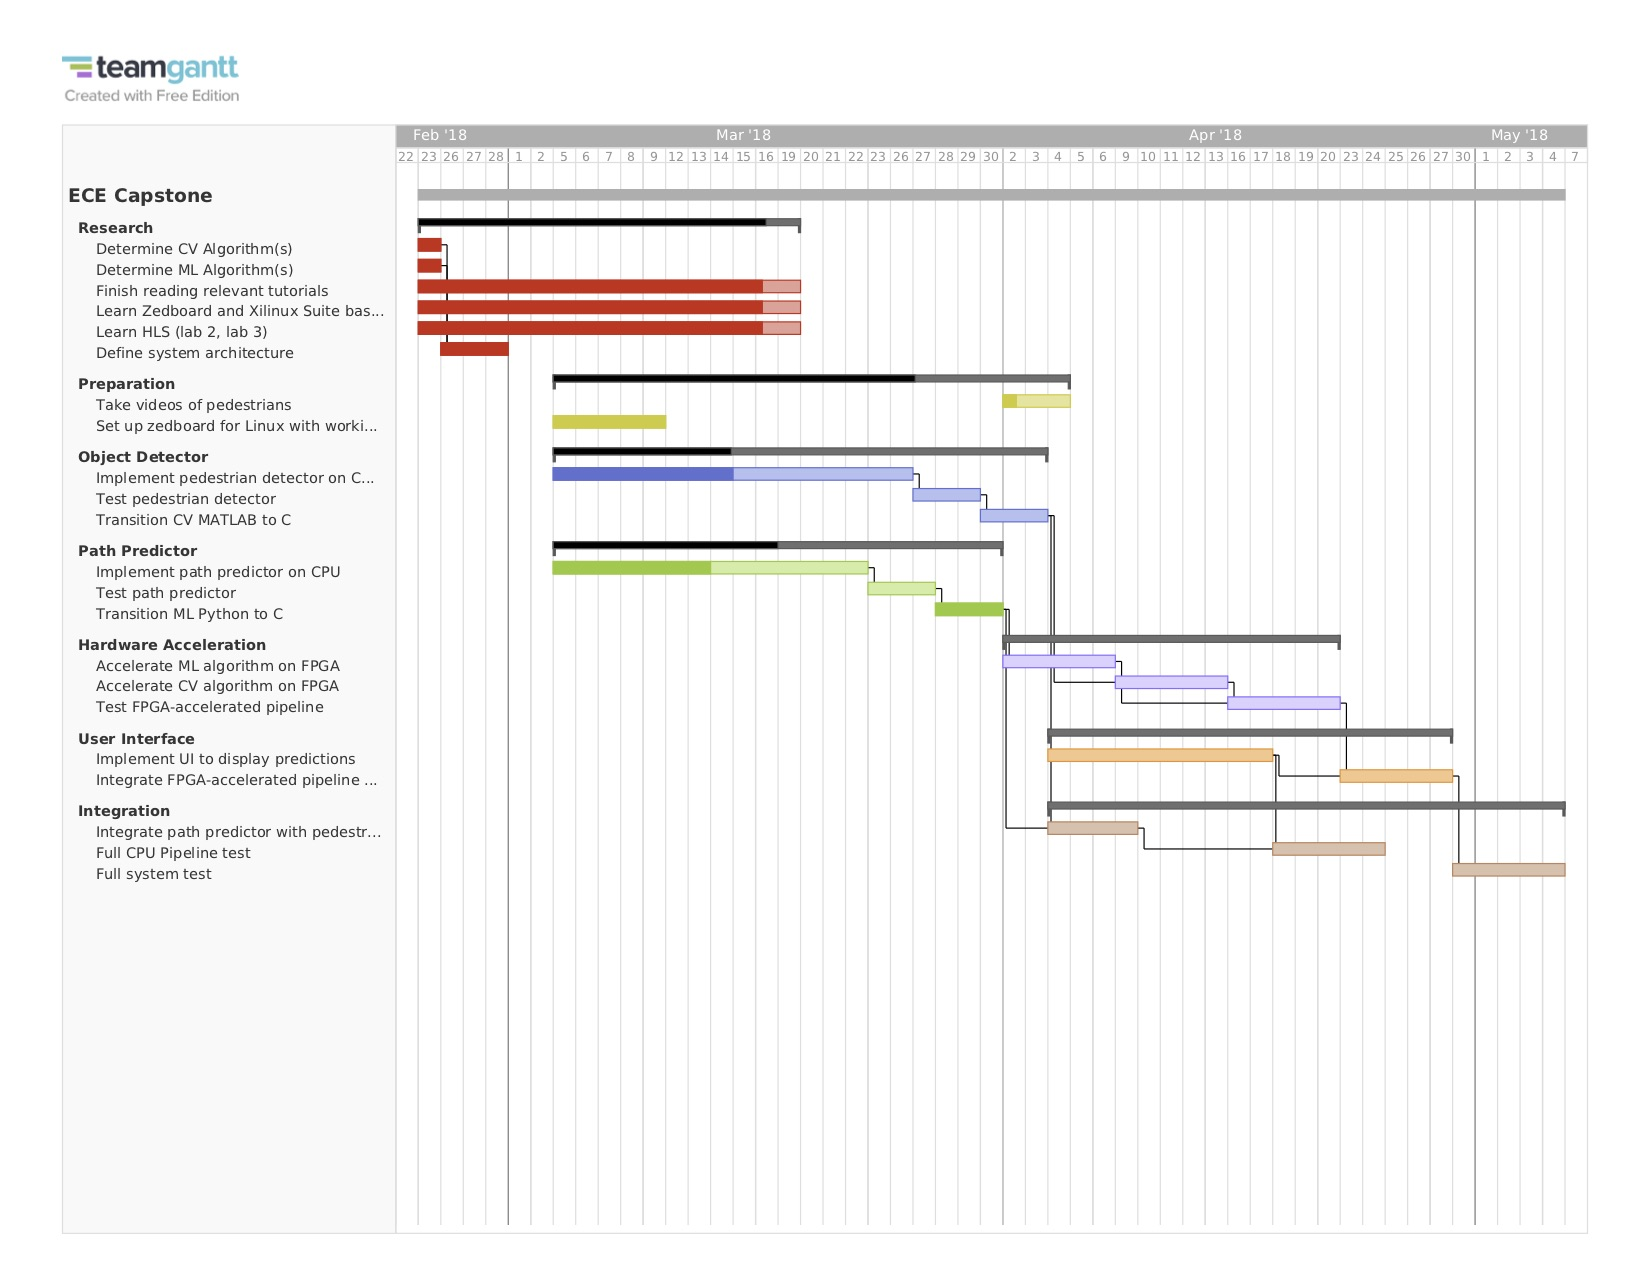
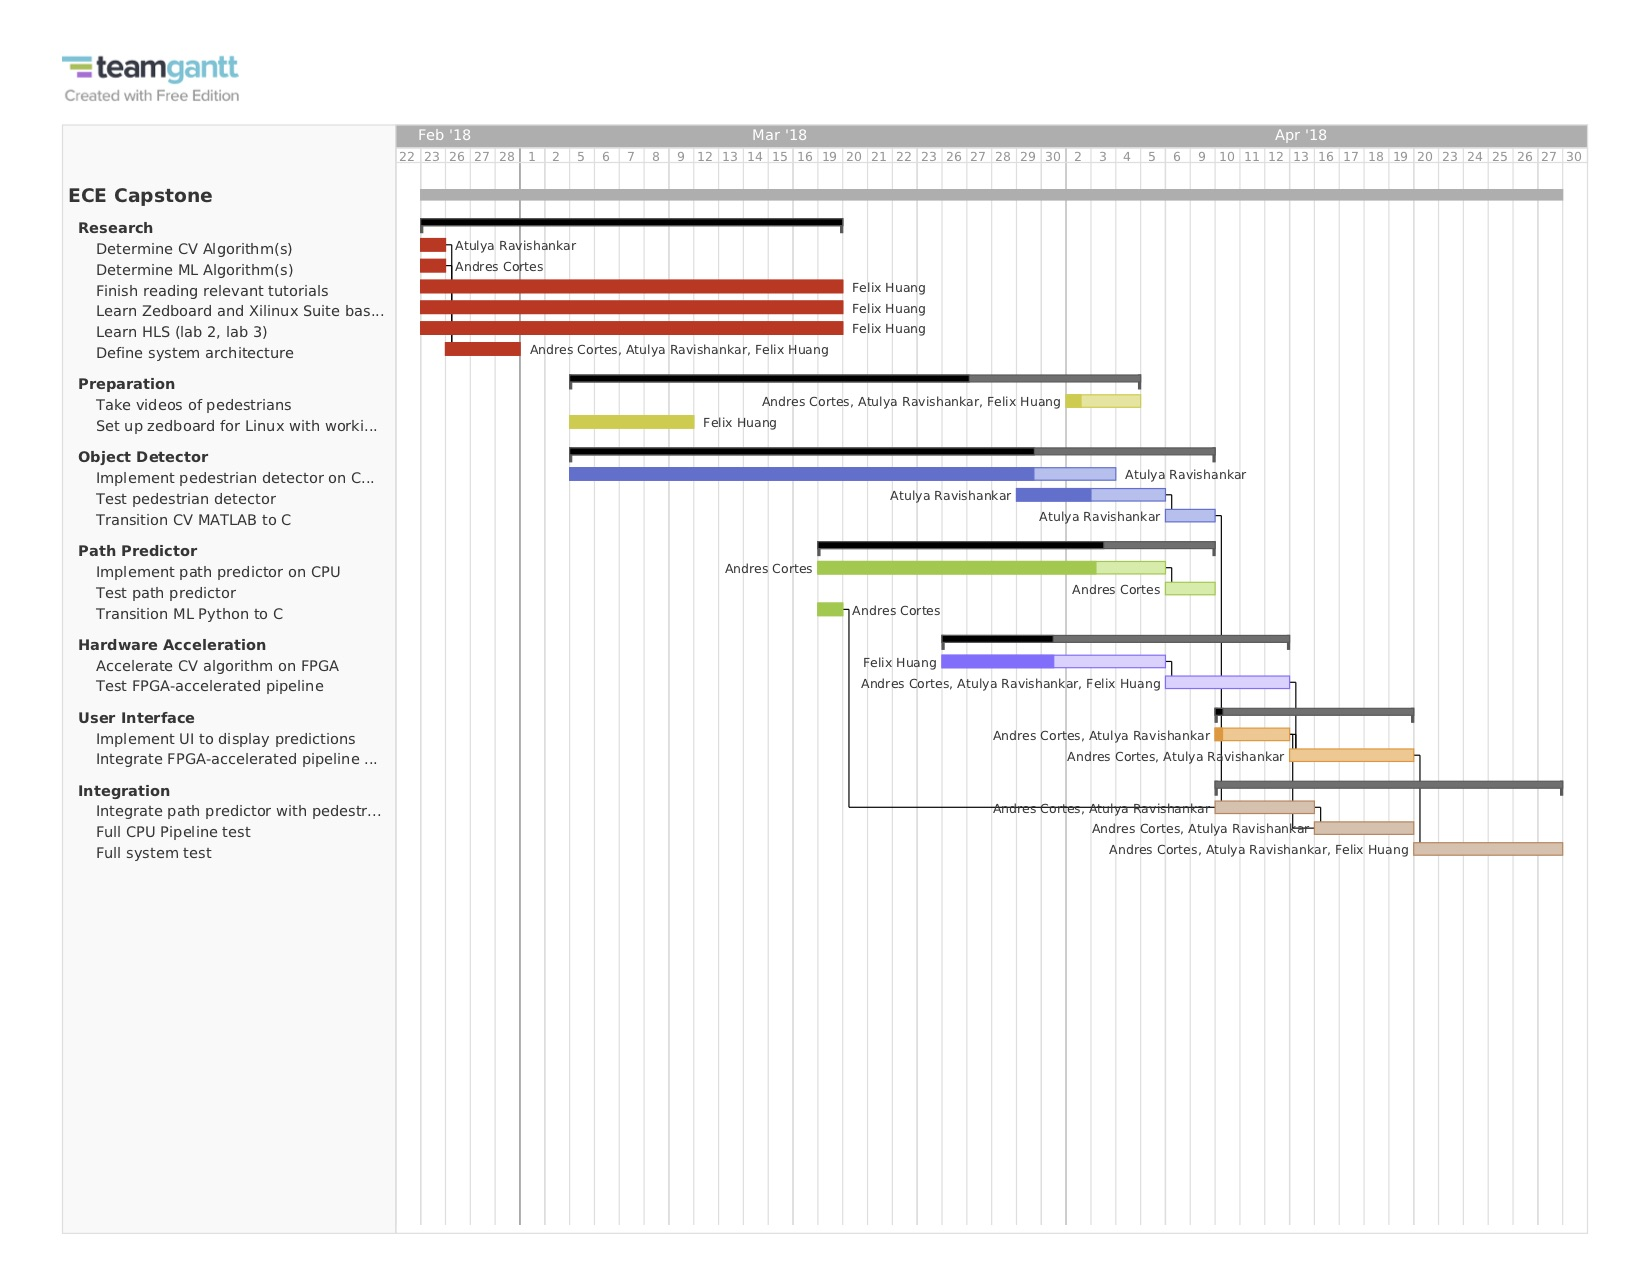
Update added for 4/5. Updated schedule.

diff --git a/Website/updates.html b/Website/updates.html
@@ -81,10 +81,37 @@
               </div>
               <div id="collapse{N}" class="collapse show" aria-labelledby="heading{N}" data-parent="#accordion">
                 <div class="card-body">
-                  <p>Coming soon...</p>
+                  <p>
+                    <strong>Atulya</strong>: Coming soon...
+                    <br><br>
+                    <strong>Andres</strong>: Coming soon...
+                    <br><br>
+                    <strong>Felix</strong>: Coming soon...
+                  </p>
                 </div>
               </div>
             </div> -->
+
+            <div class="card">
+              <div class="card-header" id="headingFour">
+                <h5 class="mb-0">
+                  <button class="btn btn-link" data-toggle="collapse" data-target="#collapseFour" aria-expanded="false" aria-controls="collapseFour">
+                    Update for 4/5
+                  </button>
+                </h5>
+              </div>
+              <div id="collapseFour" class="collapse show" aria-labelledby="headingFour" data-parent="#accordion">
+                <div class="card-body">
+                  <p>
+                    <strong>Atulya</strong>: This week I worked on refining my MATLAB HOG feature generation code. I also searched a found a very useful dataset of pedestrian images (positive and negative) that we could use for our SVM training and testing. I was able to combine these two milestones to write code that generated HOG features for my test images and training images, save them in a .mat format that could then be read in by Andres' SVM implementation. Apart from that, I helped Andres debug his SVM code and come up with ways we could improve its performance. I also updated the website and schedule.
+                    <br><br>
+                    <strong>Andres</strong>: This week I worked on fixing some slight issues in our SVM and added the ability to load in a prior probability distribution. I've tested the SVM's ability to identify whether a pedestrian is in an image by training on HOG vectors that were pre-computed from Atulya's MATLAB script and then tested on a set of HOG vectors that corresponded to a different set of images. The accuracy of the SVM when initalized to random weights averages 76% but has reached an accuracy of 87% on the test data. These weights are stored and will be used on the FPGA to evaluate whether a pedestrian is in the provided image. Moving forward, I will create data to train the logistic regression model to predict the path of the pedestrian in the scene.
+                    <br><br>
+                    <strong>Felix</strong>: This week I have implemented the gradient computation and it is functionally correct. I am currently working to optimize the design a bit while I wait for the rest of the code to be done for me to implement. The two main optimizations were removing the radians to degrees conversion, because it requires division, and using the hls_dsp library to perform arctan instead of using the synthesized version in the hls_math library. The cordic atan function in hls_dsp.h requires a specific fixed point representation and currently I am working out a way to normalize the inputs so that the angle calculation is still correct and can achieve a degree perfect accuracy. Removing the division sped up latency by 500 clock cycles. By using the dsp atan function the latency has gone from 90933 clock cycles to 81789 cycles, but more importantly, uses ~15k less LUTs, reducing utilization from 60% to 31%.
+                  </p>
+                </div>
+              </div>
+            </div>
 
             <div class="card">
               <div class="card-header" id="headingThree">
@@ -94,7 +121,7 @@
                   </button>
                 </h5>
               </div>
-              <div id="collapseThree" class="collapse show" aria-labelledby="headingThree" data-parent="#accordion">
+              <div id="collapseThree" class="collapse" aria-labelledby="headingThree" data-parent="#accordion">
                 <div class="card-body">
                   <p>
                     <strong>Atulya</strong>: This week I worked further on my MATLAB prototype for the pedestrian detector. Having implemented the HOG feature computation logic last week, I came up with a framework that will allow me to take in an image, split it up into individual sub-sections and compute the HOG feature for each sub-section. After doing so, I will implement Non-Maximum Suppression in order to reduce nearby "hits" on pedestrians to all refer to the same person. The code to implement this is currently being worked on and is expected to be done by this weekend. Apart from this code, I also worked on updating this website and syncing up with Felix to get an idea of how C++ code will eventually be run on the FPGA. This was vitally important in order for me to understand how the code I write will need to be formatted to make the transition between software to hardware easier for us as we move forward.
